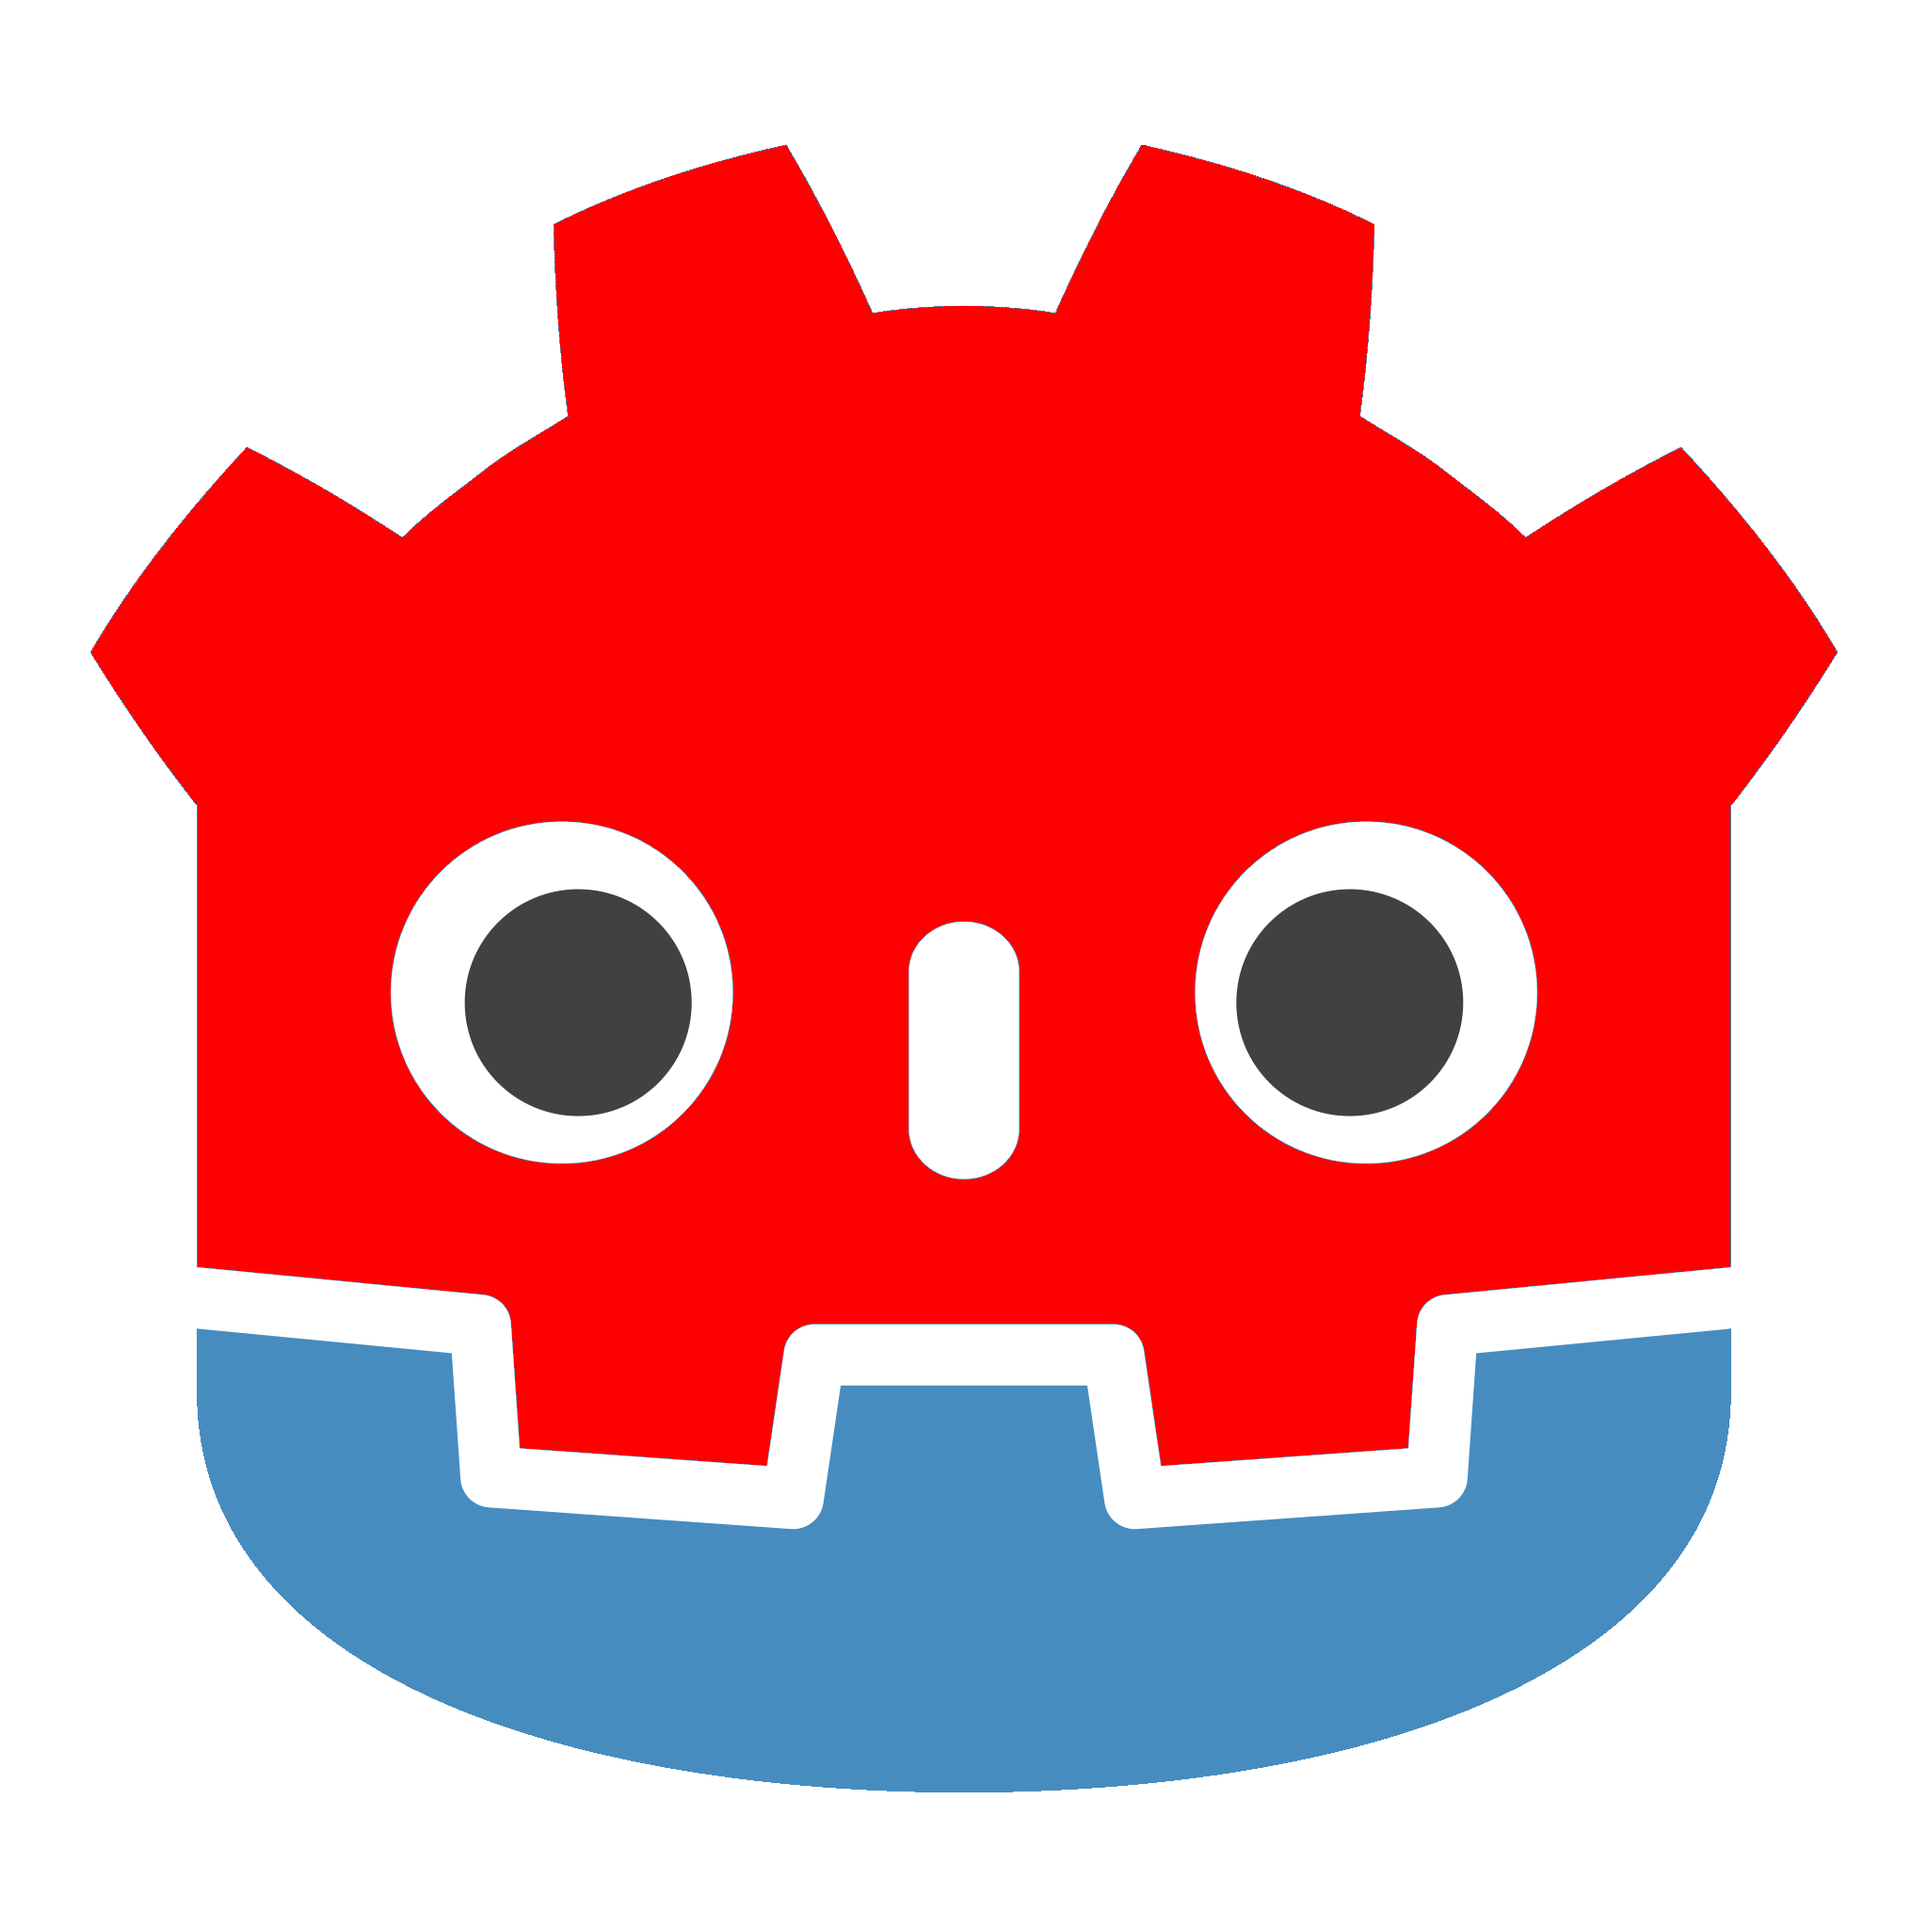
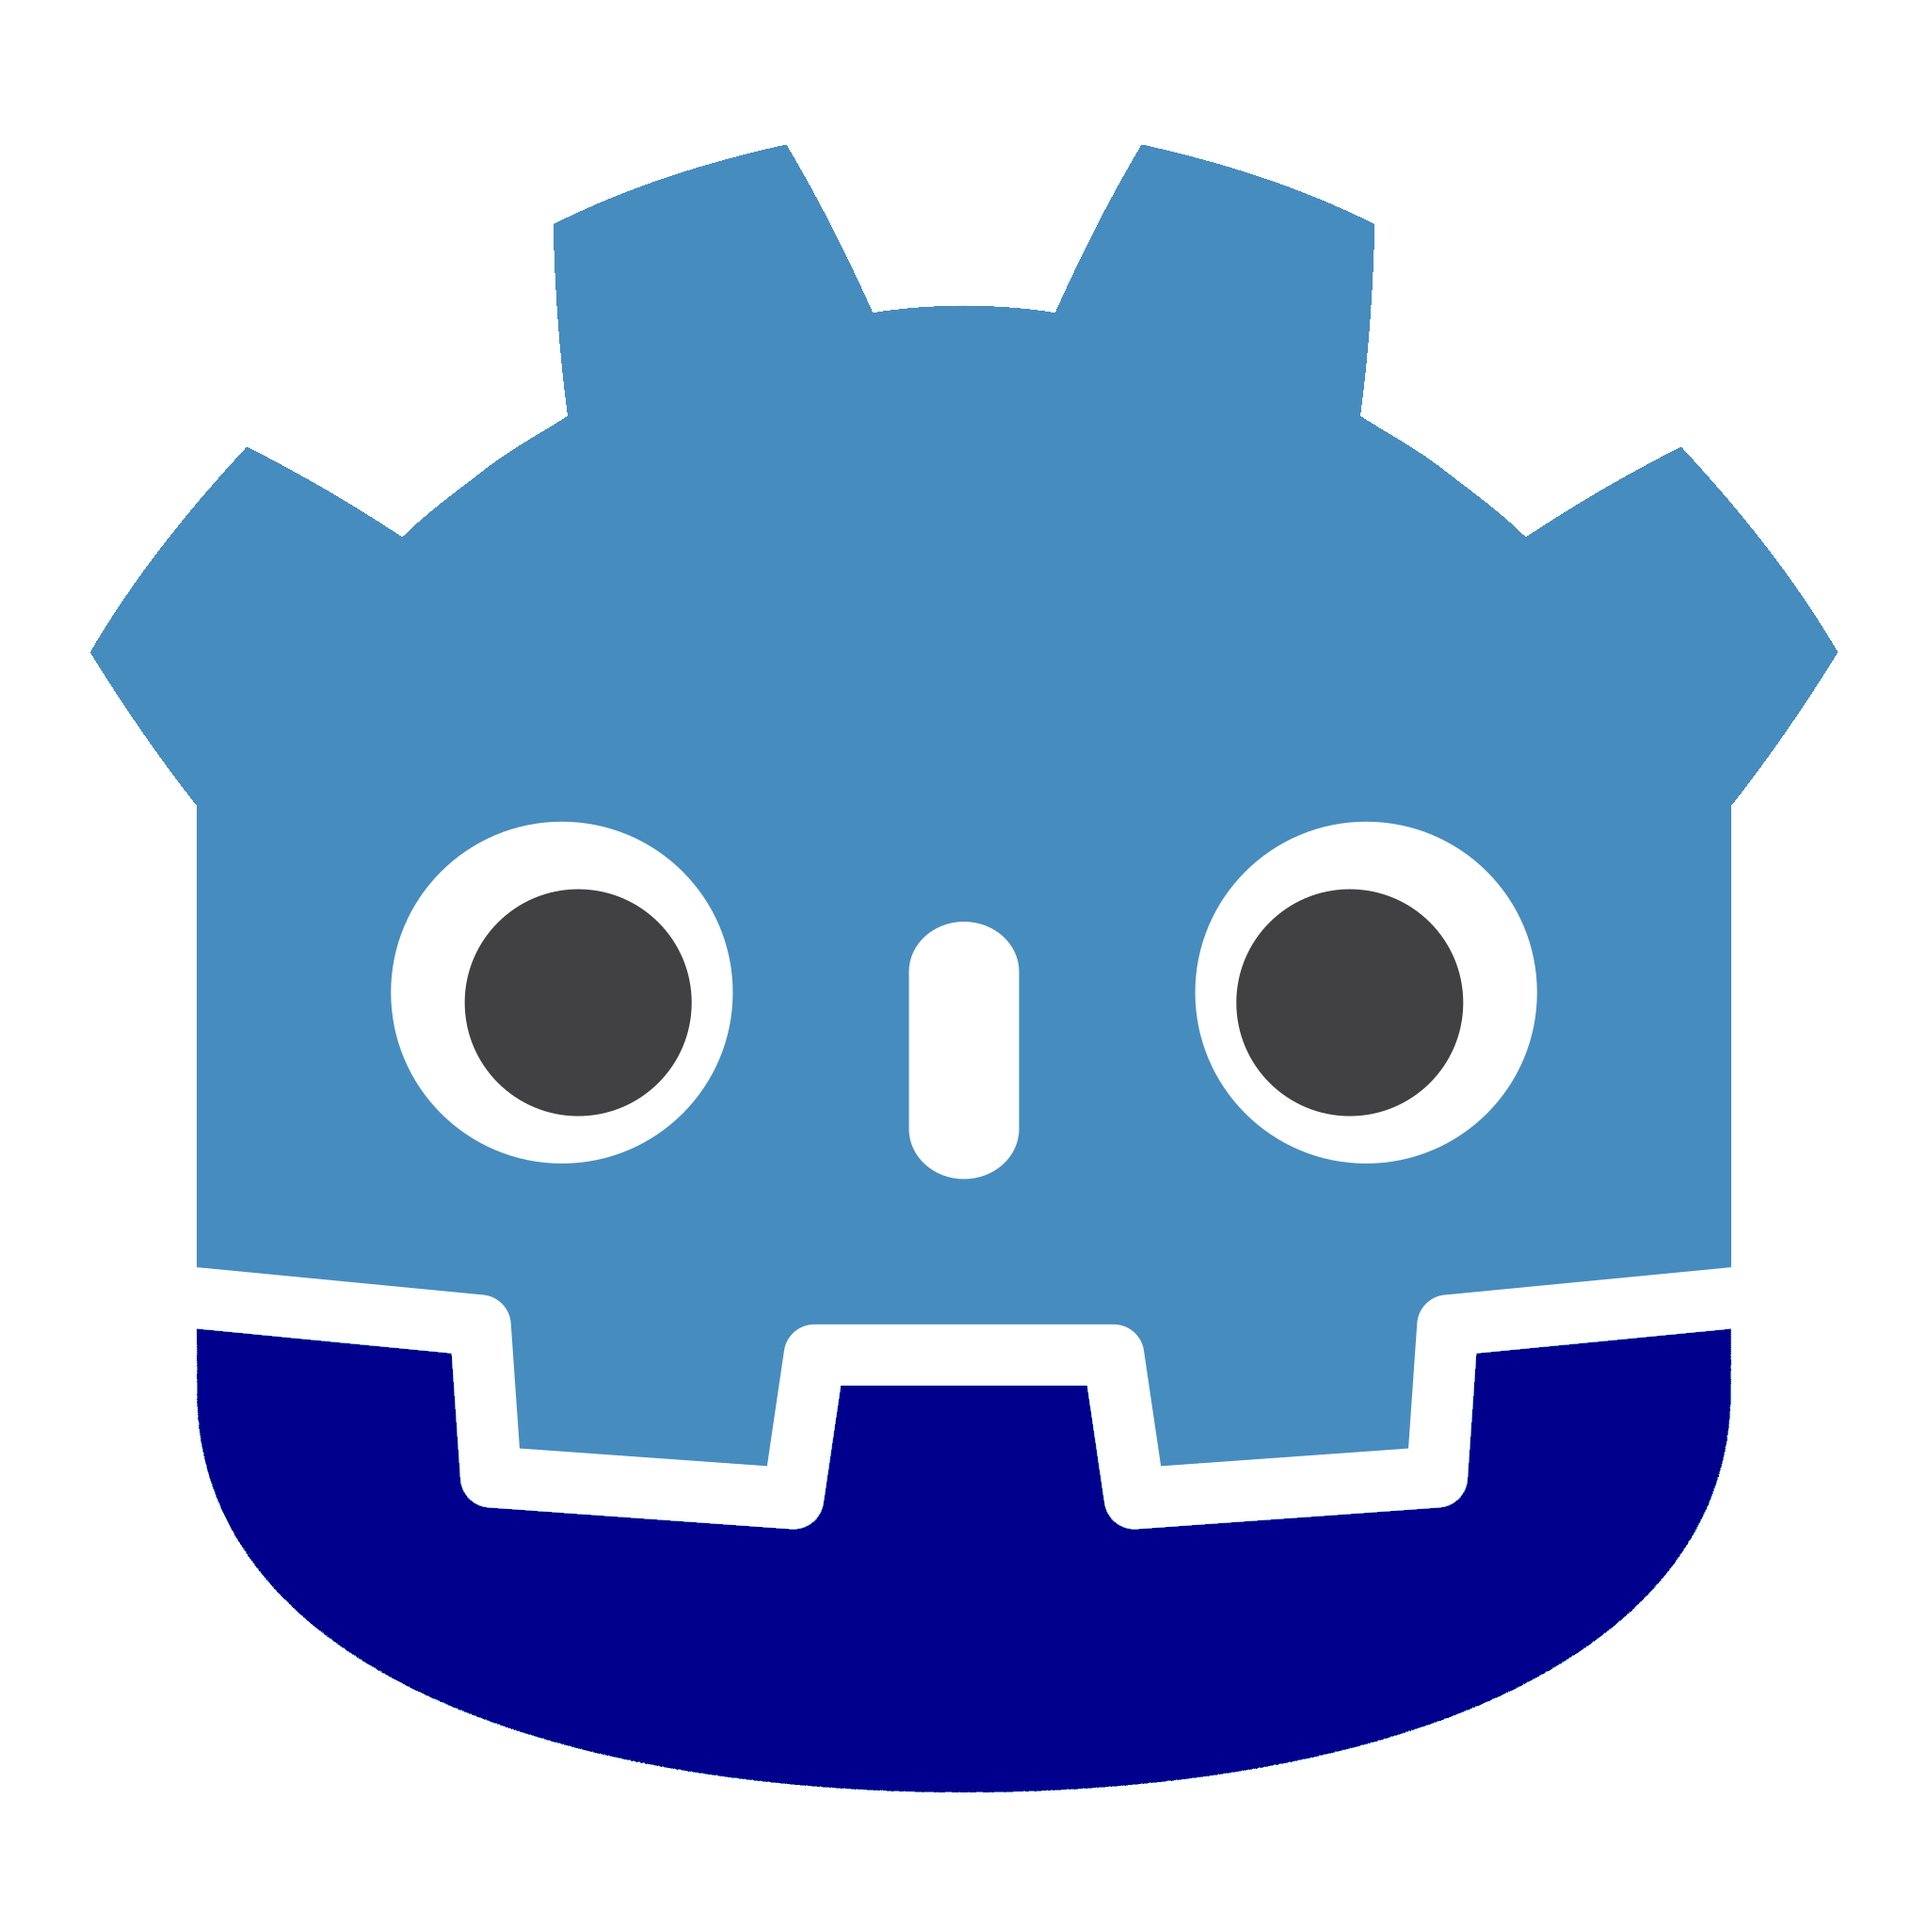
flood and replace both work

diff --git a/src/main.rs b/src/main.rs
@@ -192,29 +192,30 @@ fn main()
     let mut img: RgbImage = in_img.into_rgb8();
     let height: u32 = img.height();
     let width: u32 = img.width();
-    let mut cache: HashMap<[u8;3],(u32,u32)> = gen_palette(&img);
 
 
     // ? this is a replace mode, maybe take in an input to replace, or do it at seed
     if mode.unwrap()
     {
-        //TODO: read in the from color and the to color and check if in map, also add option to print map
-        const FROM_COL:[u8;3] = [255,255,255];
-        while cache.contains_key(&FROM_COL)
+        let mut cache: HashMap<[u8;3],(u32,u32)> = gen_palette(&img);
+        println!("Enter the color to replace");
+        let from_col = input_col();
+        println!("Enter the color to replace it with");
+        let to_col = input_col();
+        while cache.contains_key(&from_col)
         {
-            flood(&mut img, Rgb::from(FROM_COL), Rgb::from([200, 255, 255]), *cache.get(&FROM_COL).unwrap());
+            flood(&mut img, Rgb::from(from_col), Rgb::from(to_col), *cache.get(&from_col).unwrap());
             cache.clear();
             cache = gen_palette(&img);
         }
     }
     else
     {
-        //? this is the flood mode
-        //todo: read in a seed, use the get pixel as the from color for the flood and read in the new color
         let seed = input_pos(width,height);
         let col = *img.get_pixel(seed.0,seed.1);
-        //todo: needs a function to get an rgb
-        flood(&mut img, col,Rgb::from([255,0,0]),seed);
+        println!("Enter the color to flood");
+        let to_col = input_col();
+        flood(&mut img, col,Rgb::from(to_col),seed);
 
     }
 
